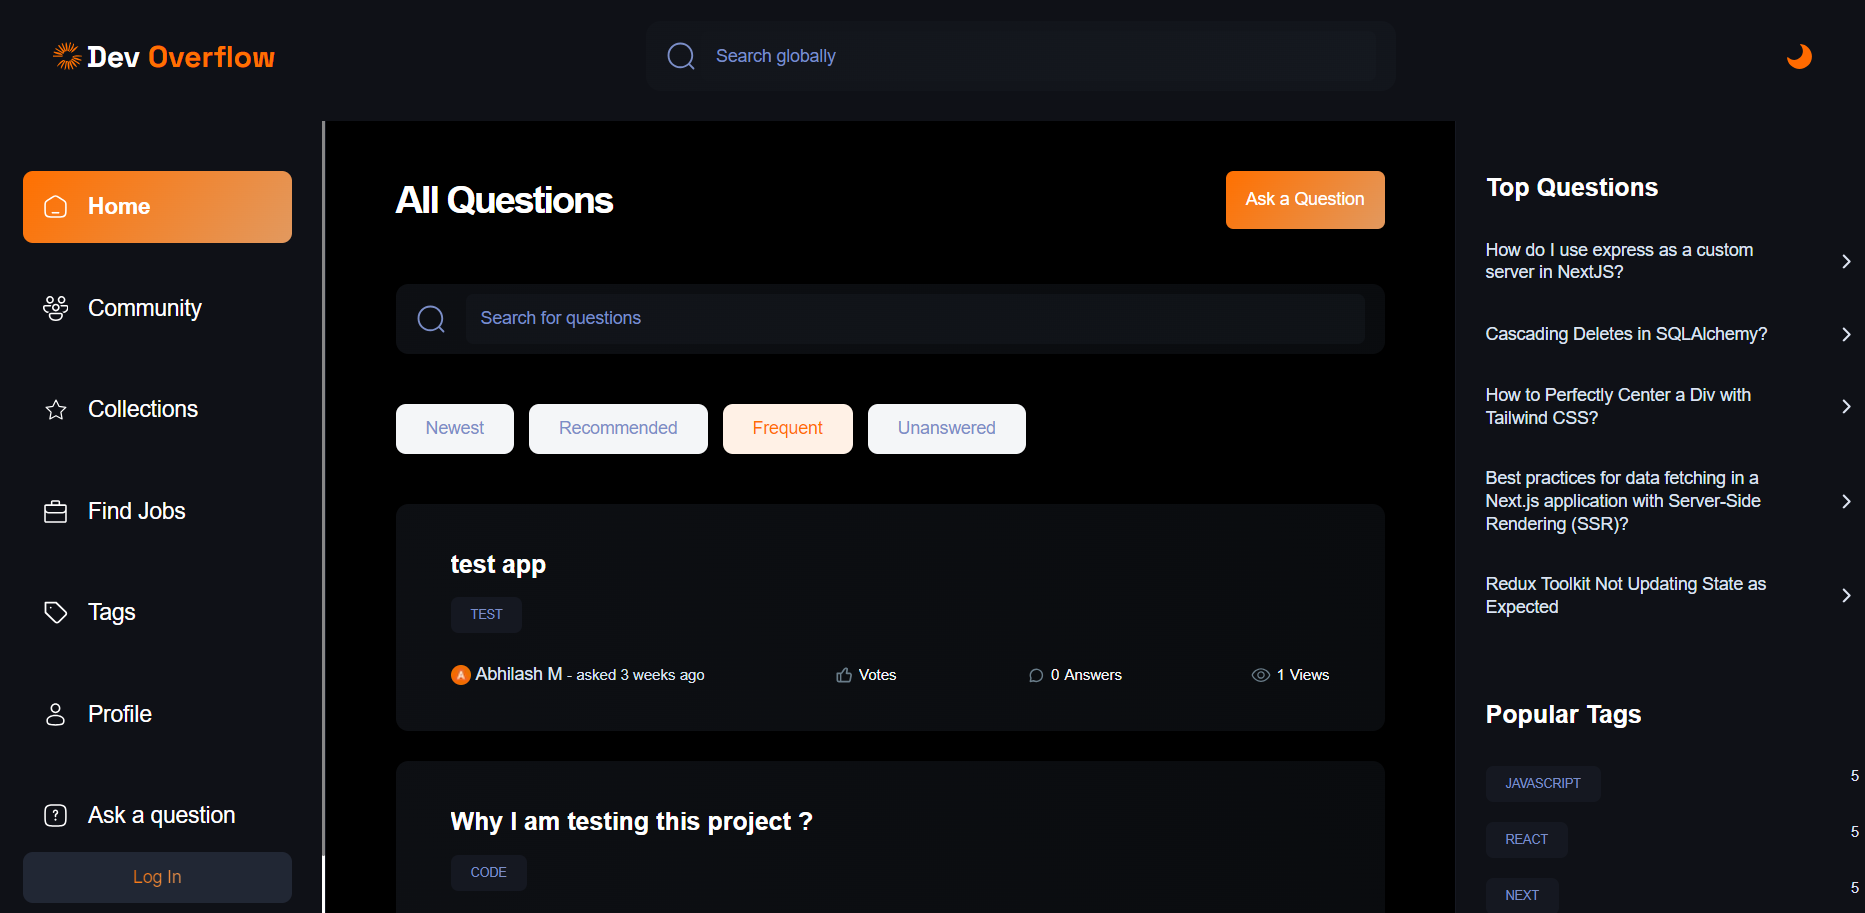
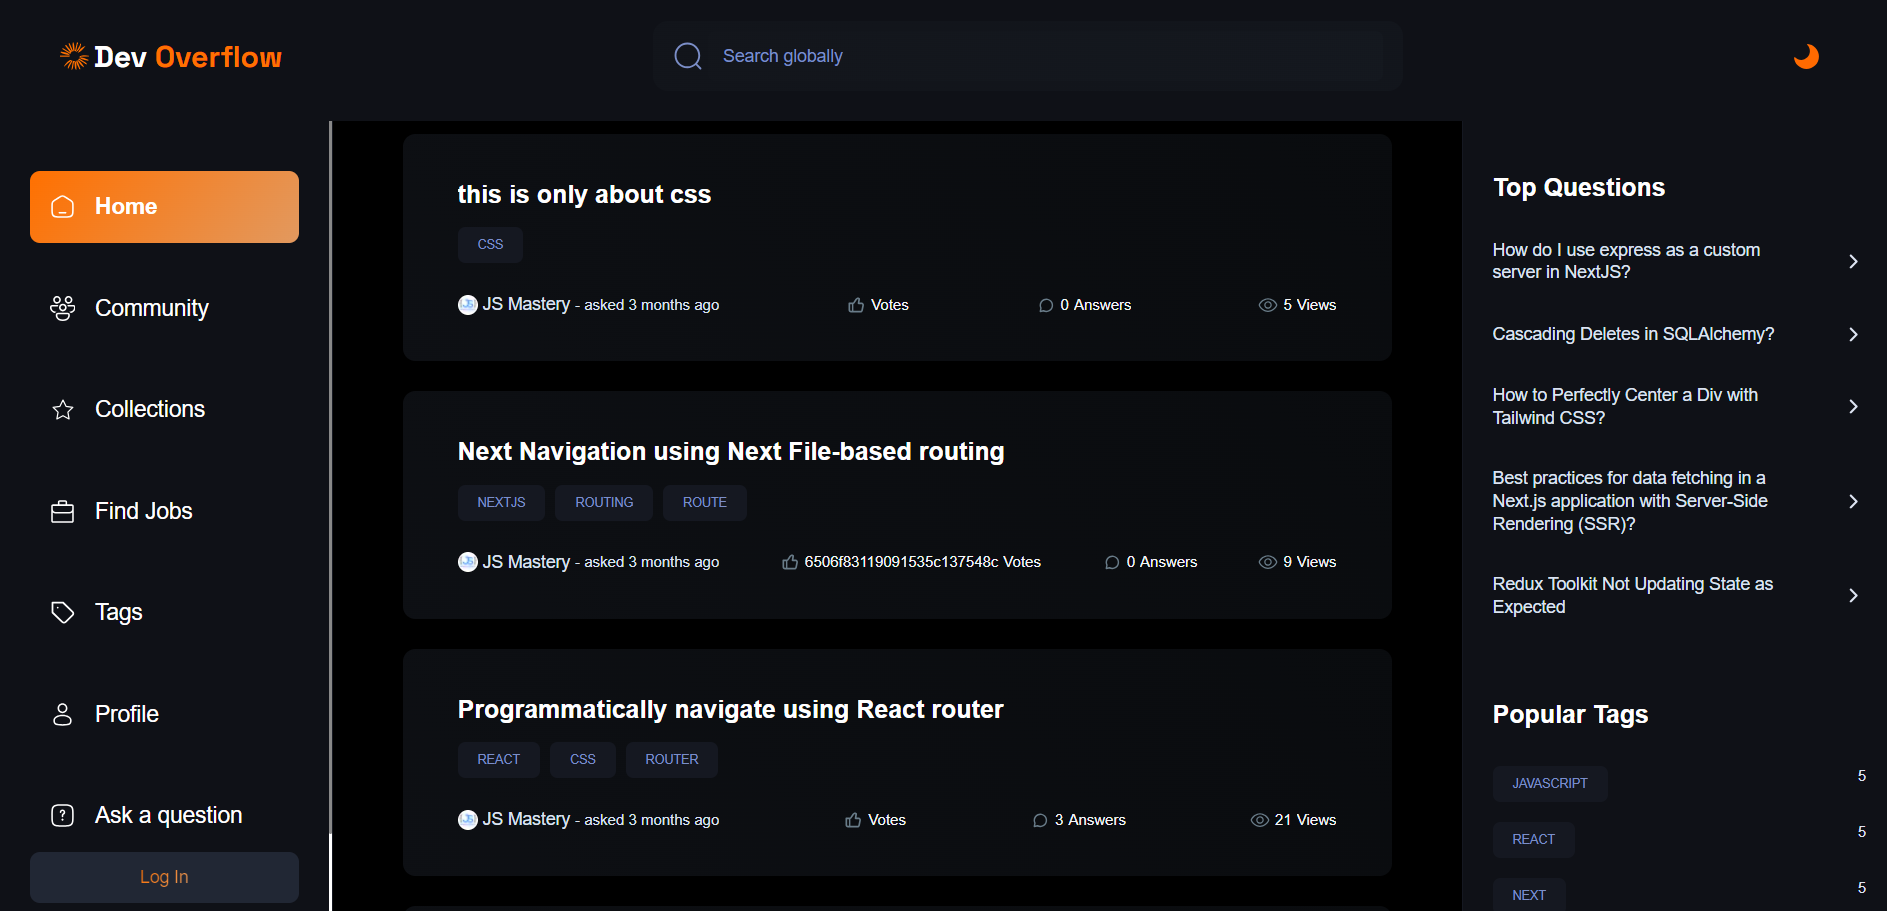
feat: Updated projects.

diff --git a/src/constants/index.js b/src/constants/index.js
@@ -15,6 +15,7 @@ import {
   // supabase,
   natourslanding,
   forkify,
+  medchat,
   nextphoto,
   // mongodb,
   pportfolio,
@@ -33,6 +34,7 @@ import {
   // postgre,
   saaslanding,
   devoverflow,
+  evently,
   vietnamblog,
   // java,
   // yaml,
@@ -46,7 +48,9 @@ import {
   threadportfolio,
   kanban,
   usepopcorn,
+  techhaven,
   justscroll,
+  nftmarketplace,
   zeal,
   // plotly,
   rpgai,
@@ -67,6 +71,7 @@ import {
   // neon,
   // figma,
   // css,
+  filmpire,
 } from "../assets";
 
 import { full_stack, gnss, cloud, tutor } from "../assets/service_icons";
@@ -750,29 +755,31 @@ const projects = [
     index: index++,
   },
   {
-    name: "Video Game Archive",
-    description:
-      "A simple yet fully modern React App that utilizes a RAWG API to retrieve a list of all available video games.",
-    descriptionvn:
-      "Ứng dụng React đơn giản nhưng hoàn toàn hiện đại sử dụng API RAWG để truy xuất danh sách tất cả các trò chơi điện tử có sẵn.",
+    name: "Filmpire",
+    description: "An AI-powered Movie Database.",
+    descriptionvn: "Cơ sở dữ liệu phim được hỗ trợ bởi AI.",
     tags: [
       {
-        name: "react",
+        name: "alan-ai",
         color: "blue-text-gradient",
       },
       {
-        name: "api",
+        name: "react",
         color: "green-text-gradient",
       },
       {
-        name: "typescript",
+        name: "vite",
         color: "pink-text-gradient",
       },
+      {
+        name: "mui",
+        color: "orange-text-gradient",
+      },
     ],
-    image: videogame,
-    project_link: "https://video-game-archive.vercel.app/",
-    source_code_link: "https://github.com/cbhuber17/VideoGameArchive",
-    date_created: new Date(2023, 5, 21),
+    image: filmpire,
+    project_link: "https://cbhuber17.github.io/filmpire/",
+    source_code_link: "https://github.com/cbhuber17/filmpire",
+    date_created: new Date(2023, 11, 20),
     under_construction: false,
     index: index++,
   },
@@ -808,6 +815,33 @@ const projects = [
     project_link: "https://alberta-er-wait-times.onrender.com/",
     source_code_link: "https://github.com/cbhuber17/ERWaitTimes",
     date_created: new Date(2022, 4, 30),
+    under_construction: false,
+    index: index++,
+  },
+  {
+    name: "Video Game Archive",
+    description:
+      "A simple yet fully modern React App that utilizes a RAWG API to retrieve a list of all available video games.",
+    descriptionvn:
+      "Ứng dụng React đơn giản nhưng hoàn toàn hiện đại sử dụng API RAWG để truy xuất danh sách tất cả các trò chơi điện tử có sẵn.",
+    tags: [
+      {
+        name: "react",
+        color: "blue-text-gradient",
+      },
+      {
+        name: "api",
+        color: "green-text-gradient",
+      },
+      {
+        name: "typescript",
+        color: "pink-text-gradient",
+      },
+    ],
+    image: videogame,
+    project_link: "https://video-game-archive.vercel.app/",
+    source_code_link: "https://github.com/cbhuber17/VideoGameArchive",
+    date_created: new Date(2023, 5, 21),
     under_construction: false,
     index: index++,
   },
@@ -941,10 +975,66 @@ const projects = [
       },
     ],
     image: devoverflow,
-    project_link: "",
+    project_link: "https://dev-overflow-cbhuber17.vercel.app/",
     source_code_link: "https://github.com/cbhuber17/dev-overflow",
     date_created: new Date(2023, 10, 18),
+    under_construction: false,
+    index: index++,
+  },
+  {
+    name: "Evently",
+    description: "NextJS MERN application similar to event brite, meetup etc.",
+    descriptionvn:
+      "Ứng dụng NextJS MERN tương tự như các sự kiện brite, Meetup, v.v.",
+    tags: [
+      {
+        name: "nextjs",
+        color: "blue-text-gradient",
+      },
+      {
+        name: "mongo",
+        color: "green-text-gradient",
+      },
+      {
+        name: "react",
+        color: "pink-text-gradient",
+      },
+      {
+        name: "tailwindcss",
+        color: "orange-text-gradient",
+      },
+    ],
+    image: evently,
+    project_link: "https://evently-cbhuber17.vercel.app/",
+    source_code_link: "https://github.com/cbhuber17/evently",
+    date_created: new Date(2023, 11, 15),
     under_construction: true,
+    index: index++,
+  },
+  {
+    name: "Tech Haven",
+    description: "An e-commerce website featuring common tech products.",
+    descriptionvn:
+      "Một trang web thương mại điện tử có các sản phẩm công nghệ phổ biến.",
+    tags: [
+      {
+        name: "payloadcms",
+        color: "blue-text-gradient",
+      },
+      {
+        name: "stripe",
+        color: "green-text-gradient",
+      },
+      {
+        name: "react",
+        color: "pink-text-gradient",
+      },
+    ],
+    image: techhaven,
+    project_link: "https://tech-haven-8ac4070-jsm.payloadcms.app/",
+    source_code_link: "https://github.com/cbhuber17/tech-haven",
+    date_created: new Date(2023, 11, 2),
+    under_construction: false,
     index: index++,
   },
   {
@@ -979,6 +1069,68 @@ const projects = [
     project_link: "https://natours-ewub.onrender.com/",
     source_code_link: "https://github.com/cbhuber17/natours-api",
     date_created: new Date(2023, 2, 23),
+    under_construction: false,
+    index: index++,
+  },
+  {
+    name: "Medical Paging Chat",
+    description:
+      "About A basic chat app used as a 'pager' for messaging and notifications in medical applications.",
+    descriptionvn:
+      "Một ứng dụng trò chuyện cơ bản được sử dụng làm 'máy nhắn tin' để nhắn tin và thông báo trong các ứng dụng y tế.",
+    tags: [
+      {
+        name: "react",
+        color: "blue-text-gradient",
+      },
+      {
+        name: "node",
+        color: "green-text-gradient",
+      },
+      {
+        name: "stream-chat",
+        color: "pink-text-gradient",
+      },
+    ],
+    image: medchat,
+    project_link: "https://cbhuber17.github.io/medical-chat-app/",
+    source_code_link: "https://github.com/cbhuber17/medical-chat-app",
+    date_created: new Date(2023, 11, 10),
+    under_construction: true,
+    index: index++,
+  },
+  {
+    name: "NFT Marketplace",
+    description:
+      "CryptoKet dApp - Solidity: Use of smart contracts, that run on a decentralized computing, blockchain distributed ledger system.",
+    descriptionvn:
+      "CryptoKet dApp - Solidity: Sử dụng hợp đồng thông minh, chạy trên hệ thống sổ cái phân tán, tính toán phi tập trung.",
+    tags: [
+      {
+        name: "solidity",
+        color: "blue-text-gradient",
+      },
+      {
+        name: "ipfs",
+        color: "green-text-gradient",
+      },
+      {
+        name: "nextjs",
+        color: "pink-text-gradient",
+      },
+      {
+        name: "sepolia",
+        color: "orange-text-gradient",
+      },
+      {
+        name: "hardhat",
+        color: "red-text-gradient",
+      },
+    ],
+    image: nftmarketplace,
+    project_link: "https://nft-marketplace-cbhuber17.vercel.app/",
+    source_code_link: "https://github.com/cbhuber17/nft-marketplace",
+    date_created: new Date(2023, 11, 13),
     under_construction: false,
     index: index++,
   },

diff --git a/src/assets/index.js b/src/assets/index.js
@@ -56,9 +56,12 @@ import natours from "./projects/natours.png";
 import pportfolio from "./projects/pportfolio.png";
 import zeal from "./projects/zeal.png";
 import nodefarm from "./projects/nodefarm.png";
+import medchat from "./projects/medchat.png";
 import devoverflow from "./projects/devoverflow.png";
 import fastpizza from "./projects/fastpizza.png";
 import trillo from "./projects/trillo.png";
+import evently from "./projects/evently.png";
+import techhaven from "./projects/techhaven.png";
 import vnlandingpage from "./projects/vnlandingpage.png";
 import saaslanding from "./projects/saaslanding.png";
 import guessnumretro from "./projects/guessnumretro.png";
@@ -73,7 +76,9 @@ import nexter from "./projects/nexter.png";
 import aberwait from "./projects/aberwait.png";
 import bingosim from "./projects/bingosim.png";
 import nextnotes from "./projects/nextnotes.png";
+import filmpire from "./projects/filmpire.png";
 import eventgrids from "./projects/eventgrids.png";
+import nftmarketplace from "./projects/nftmarketplace.png";
 
 export {
   // pocketbase,
@@ -116,14 +121,18 @@ export {
   pportfolio,
   rpgai,
   flyht,
+  evently,
   natourslanding,
   // stripe,
   justscroll,
+  medchat,
+  techhaven,
   zeal,
   // supabase,
   threadportfolio,
   // git,
   web2004,
+  filmpire,
   bingosim,
   // typescript,
   gnssquiz,
@@ -147,6 +156,7 @@ export {
   // plotly,
   // figma,
   // postgre,
+  nftmarketplace,
   // angular,
   // express,
 };
